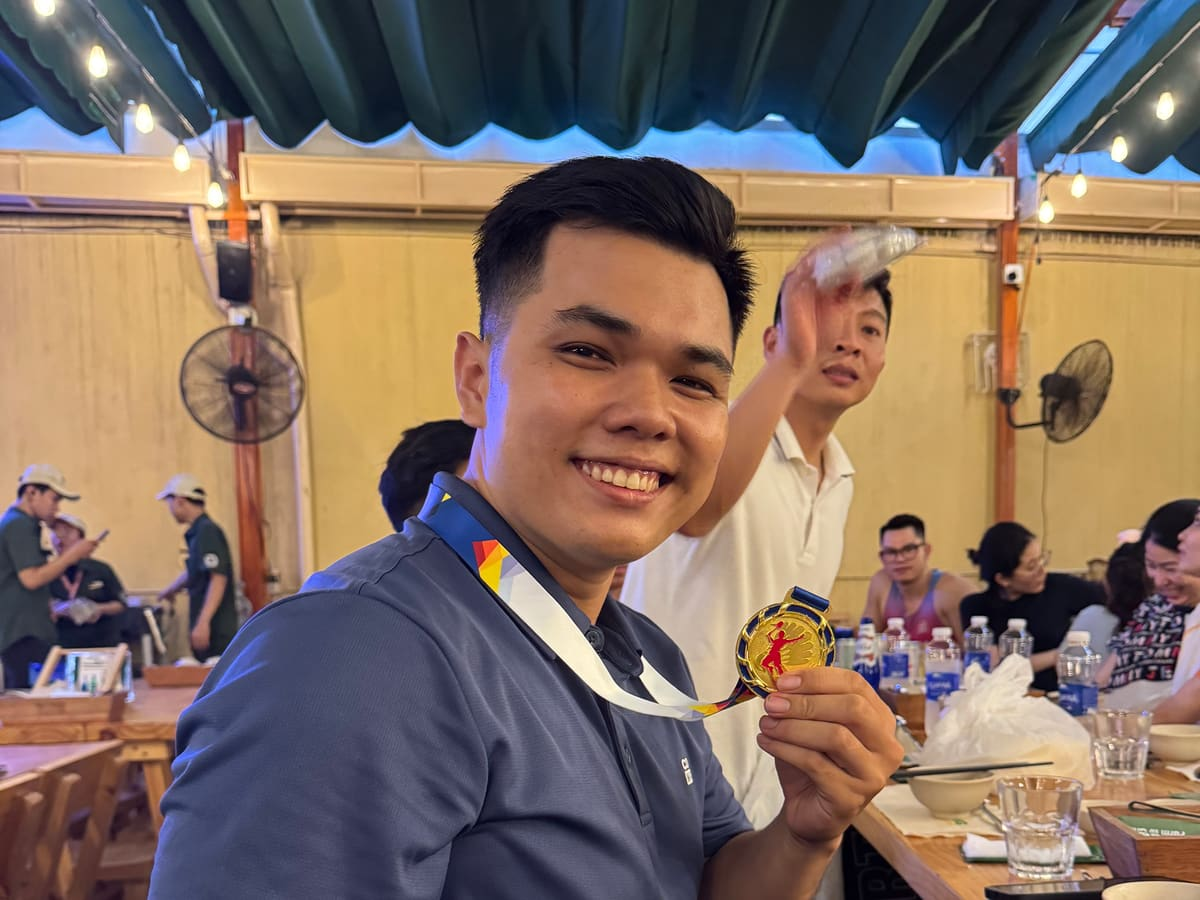
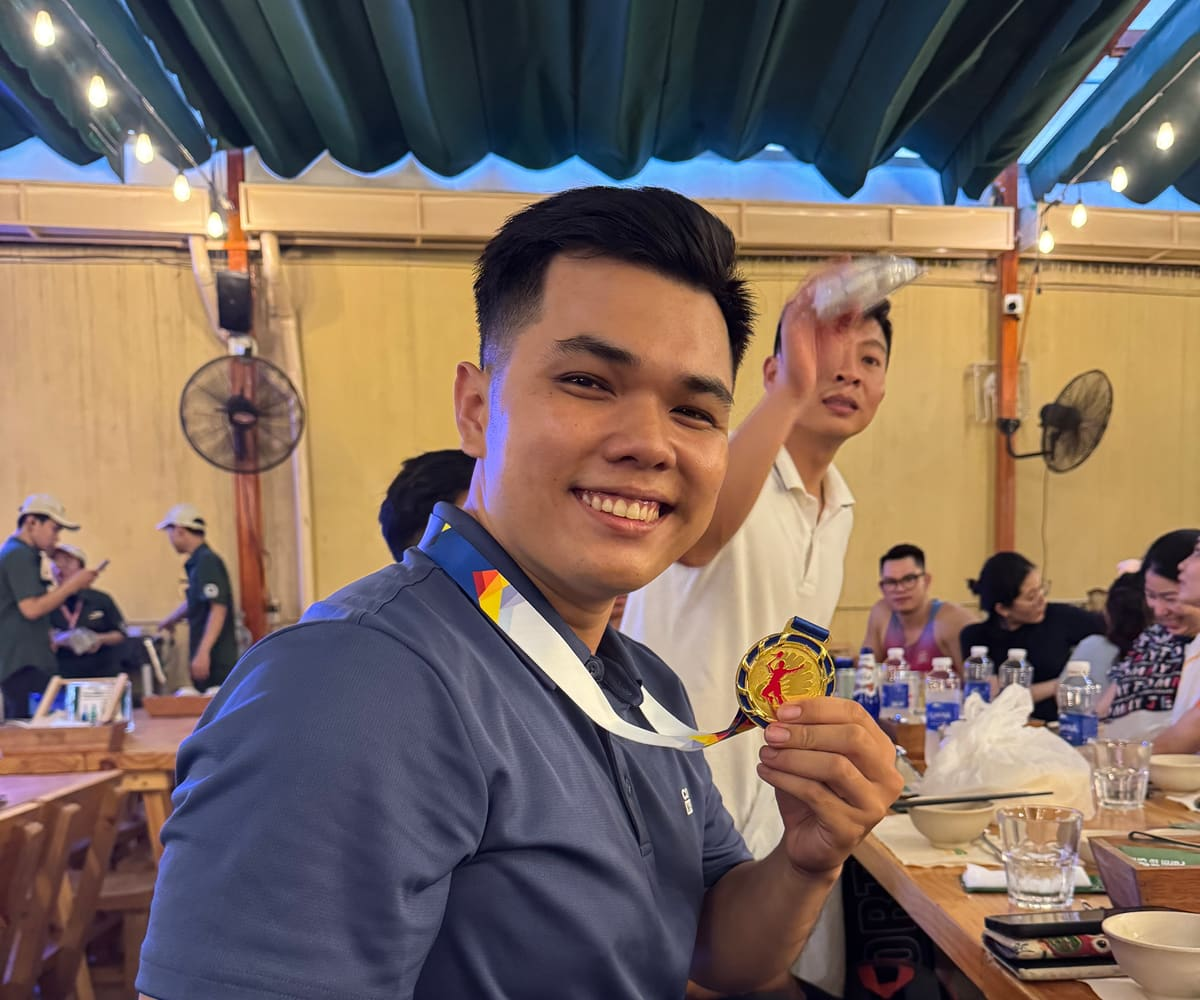
style(assets): give the photo frames more room at 6:5
cam-vang.jpg is a 3:4 portrait filling a landscape frame, so it already
uses 100% of the source width — the subject cannot be scaled down
without letterboxing, and only a taller frame reveals more of the scene.
Frames go 4:3 → 6:5; the two native-4:3 photos give up ~10% of their
width, which is invisible on centred group shots.

Claude-Session: https://claude.ai/code/session_01Ngui52jdFtBsdruwy1Awcc

diff --git a/scripts/optimize-assets.ts b/scripts/optimize-assets.ts
@@ -4,10 +4,14 @@ import sharp from "sharp";
 // assets/images holds full-size iOS captures (16 MB total). These are the
 // web-sized copies the landing page actually ships.
 //
-// The three photos are cropped to 4:3 here rather than left to the CSS
-// aspect-ratio, so what lands in the frame is decided once and visibly —
-// a centre crop of a tall portrait cuts heads off. `gravity` picks which
-// edge to keep.
+// The three photos are cropped here rather than left to the CSS
+// aspect-ratio, so what lands in the frame is decided once and visibly.
+//
+// The frames are 6:5, not 4:3. cam-vang.jpg is a 3:4 portrait, so it fills
+// the frame's width at 100% of the source — the subject cannot be made
+// smaller without letterboxing, and a taller frame is the only way to reveal
+// more of the scene above and below it. Photos 1 and 3 are native 4:3 and
+// give up ~10% of their width, which is invisible on a centred group shot.
 type Job = {
   from: string;
   to: string;
@@ -26,7 +30,7 @@ const jobs: Job[] = [
     from: "assets/images/20241006_113947225_iOS.jpg",
     to: "frontend/public/photos/doi-hinh-mua-truoc.jpg",
     width: 1200,
-    height: 900,
+    height: 1000,
     quality: 78,
     fit: "cover",
     gravity: "centre",
@@ -36,17 +40,17 @@ const jobs: Job[] = [
     from: "assets/images/20241124_101608887_iOS.jpg",
     to: "frontend/public/photos/cam-vang.jpg",
     width: 1200,
-    height: 900,
+    height: 1000,
     quality: 78,
     fit: "cover",
     gravity: "north",
-    offset: 0.18,
+    offset: 0.16,
   },
   {
     from: "assets/images/20231217_142514521_iOS.jpg",
     to: "frontend/public/photos/hiep-phu-ngoai-quan.jpg",
     width: 1200,
-    height: 900,
+    height: 1000,
     quality: 78,
     fit: "cover",
     gravity: "centre",

diff --git a/frontend/src/features/landing/primitives.tsx b/frontend/src/features/landing/primitives.tsx
@@ -95,7 +95,7 @@ export function PhotoFrame({
 }) {
   return (
     <figure className="photo-frame rot" style={rot(rotate)}>
-      <img src={src} alt={alt} width={1200} height={900} loading="lazy" />
+      <img src={src} alt={alt} width={1200} height={1000} loading="lazy" />
       <figcaption>{caption}</figcaption>
     </figure>
   );

diff --git a/frontend/src/styles/poster.css b/frontend/src/styles/poster.css
@@ -186,7 +186,7 @@
   /* height:auto is required — without it the img's height attribute wins and
      aspect-ratio is ignored, leaving portrait sources absurdly tall. */
   height: auto;
-  aspect-ratio: 4 / 3;
+  aspect-ratio: 6 / 5;
   object-fit: cover;
   max-width: 100%;
 }

diff --git a/frontend/CLAUDE.md b/frontend/CLAUDE.md
@@ -36,6 +36,11 @@ http://127.0.0.1:3100/ /tmp/out.png 1280 900 full` renders the served page.
   order interleaves the two columns.
 - Any `<img>` with an `aspect-ratio` also needs `height: auto`, or the HTML
   `height` attribute wins and the aspect ratio is ignored.
+- Photo frames are **6:5**, not the poster's 4:3. `cam-vang.jpg` is a 3:4
+  portrait, so it fills the frame's width at 100% of the source; a taller
+  frame is the only way to show more of that scene. Keep `poster.css`'s
+  `aspect-ratio`, the `PhotoFrame` width/height attributes and
+  `scripts/optimize-assets.ts` in agreement.
 - Everything must survive 390px wide with no horizontal scroll; tables go
   inside `.table-scroll`.
 - Files here are outside `pnpm lint`, so `pnpm format` will not reformat them.
